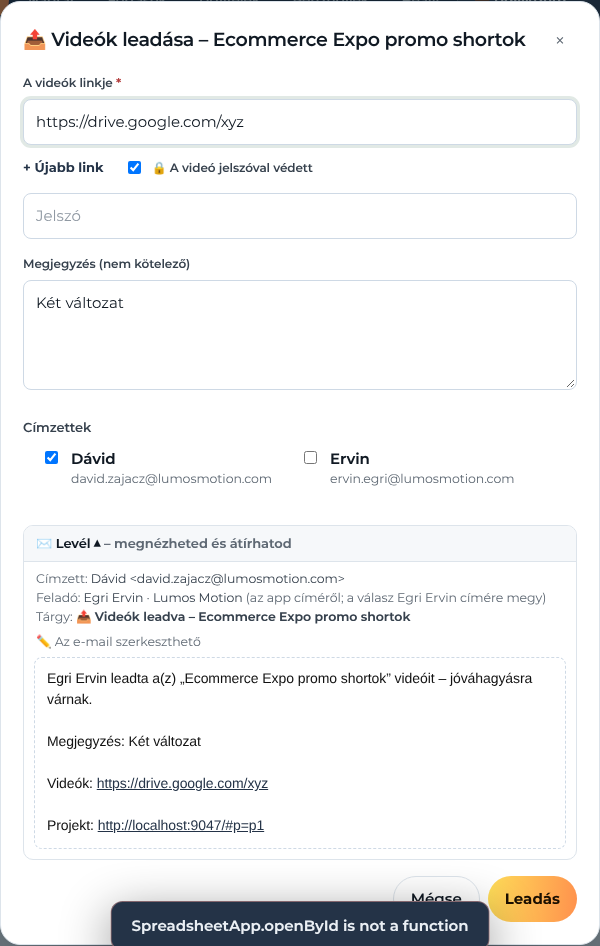
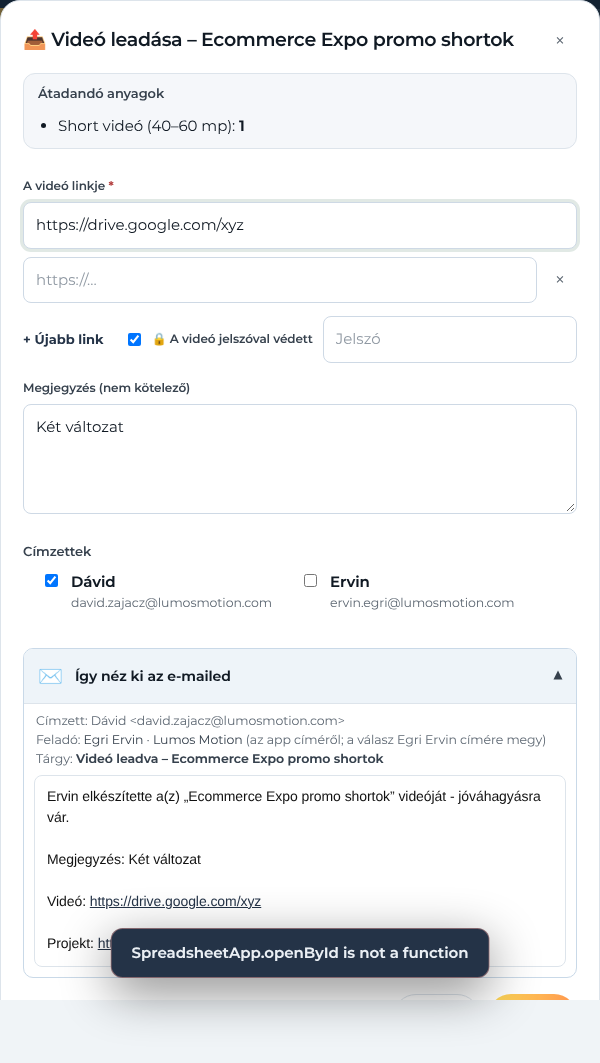
Minden linkes ablakban a jelszó pipa az Újabb link sorában
Claude-Session: https://claude.ai/code/session_01W5Kx8xQTQDPf7wqGXR6mKu

diff --git a/actions.js b/actions.js
@@ -27,6 +27,7 @@ function openModal(title,body,{submit,submitLabel='Mentés',left='',cancelLabel=
     <div class="mfoot">${left?`<span class="left">${left}</span>`:''}<button type="button" class="btn outline" data-action="${submit?'modal-cancel':'modal-close'}">${esc(cancelLabel)}</button>${submit?`<button type="submit" class="btn primary">${esc(submitLabel)}</button>`:''}</div></form></div>`;
   if(MD_KEY)MD_KEY+='|'+mdSig();   // a piszkozat csak ugyanarra a kiinduló űrlapra töltődik vissza (pl. másik munkatárs szerkesztésekor nem)
   document.documentElement.style.overflow='hidden';
+  {const lf=$('modalRoot').querySelector('.links-field'),pf=$('modalRoot').querySelector('.pass-field'),ad=lf&&lf.querySelector('.link-add');if(lf&&pf&&ad&&!lf.querySelector('.cd-linkrow')){const row=document.createElement('div');row.className='cd-linkrow';ad.replaceWith(row);row.append(ad,pf);}}   // „+ Újabb link” és a jelszó egy sorban (minden linkes ablakban)
   const first=$('modalRoot').querySelector('input:not([type=checkbox]):not([type=radio]),textarea,select');if(first)first.focus();
   if(MD_KEY){const k=MD_KEY;setTimeout(()=>mdRestore(k),0);}
 }
@@ -649,7 +650,7 @@ function cutDeliverModal(){const p=projById(S.projectId);if(!p)return;
       if(!/^https:\/\/\S+$/i.test(a.link)){const li=$('m-cdLink');if(li){li.classList.add('inp-bad');li.focus();}toast('Add meg a videók linkjét (https://…).',true);return;}if(linksBad(a.links)){toast('Minden link https:// kezdetű legyen.',true);return;}if(a.emails&&!a.emails.length){const rc=$('cdRcpt');if(rc){rc.classList.add('rc-bad');rc.scrollIntoView({block:'center',behavior:'smooth'});}toast('Pipálj ki legalább egy címzettet.',true);return;}
       try{const r=await call('crewDeliver',a);const k=S.projects.findIndex(x=>x.id===p.id);if(k>=0&&r.project)S.projects[k]=normProj(r.project);if(S.projectId===p.id&&r.project){S.draft=prepDraft(r.project);S.draftBase=clone(S.draft);S.dirty=false;}
         closeModal();render(true);toast('Videók leadva'+(r.notified&&r.notified.length?' – értesítve: '+r.notified.join(', '):''));}catch(e){handleErr(e);}}});
-  {const lf=document.querySelector('#mform .links-field'),pf=document.querySelector('#mform .pass-field'),ad=lf&&lf.querySelector('.link-add');if(lf&&pf&&ad){const row=document.createElement('div');row.className='cd-linkrow';ad.replaceWith(row);row.append(ad,pf);}}   // „+ Újabb link” és a jelszó egy sorban
+  {}   // „+ Újabb link” és a jelszó egy sorban
   CD_EDITED=false;{const fm=$('mform');if(fm)fm.addEventListener('input',e=>{if(e.target.id==='m-cdLink')e.target.classList.remove('inp-bad');});if(fm)fm.addEventListener('change',e=>{if(e.target.name==='cdTo'){const rc=$('cdRcpt');if(rc)rc.classList.remove('rc-bad');}});}
   CD_RCPT=null;const ld=n=>call('deliverRecipients').then(r=>{const L=Array.isArray(r)?r:[];if(!L.length&&n)return setTimeout(()=>ld(n-1),1500);CD_RCPT=L;cdPreview(p);}).catch(()=>{if(n)return setTimeout(()=>ld(n-1),1500);CD_RCPT=[];cdPreview(p);});ld(2);
   cdPreview(p);const f=$('mform');if(f){f.addEventListener('input',()=>cdPreview(p));f.addEventListener('change',()=>cdPreview(p));f.addEventListener('click',e=>{if(e.target.closest&&e.target.closest('#cdPrevBody,summary'))return;setTimeout(()=>cdPreview(p),0);});}}
